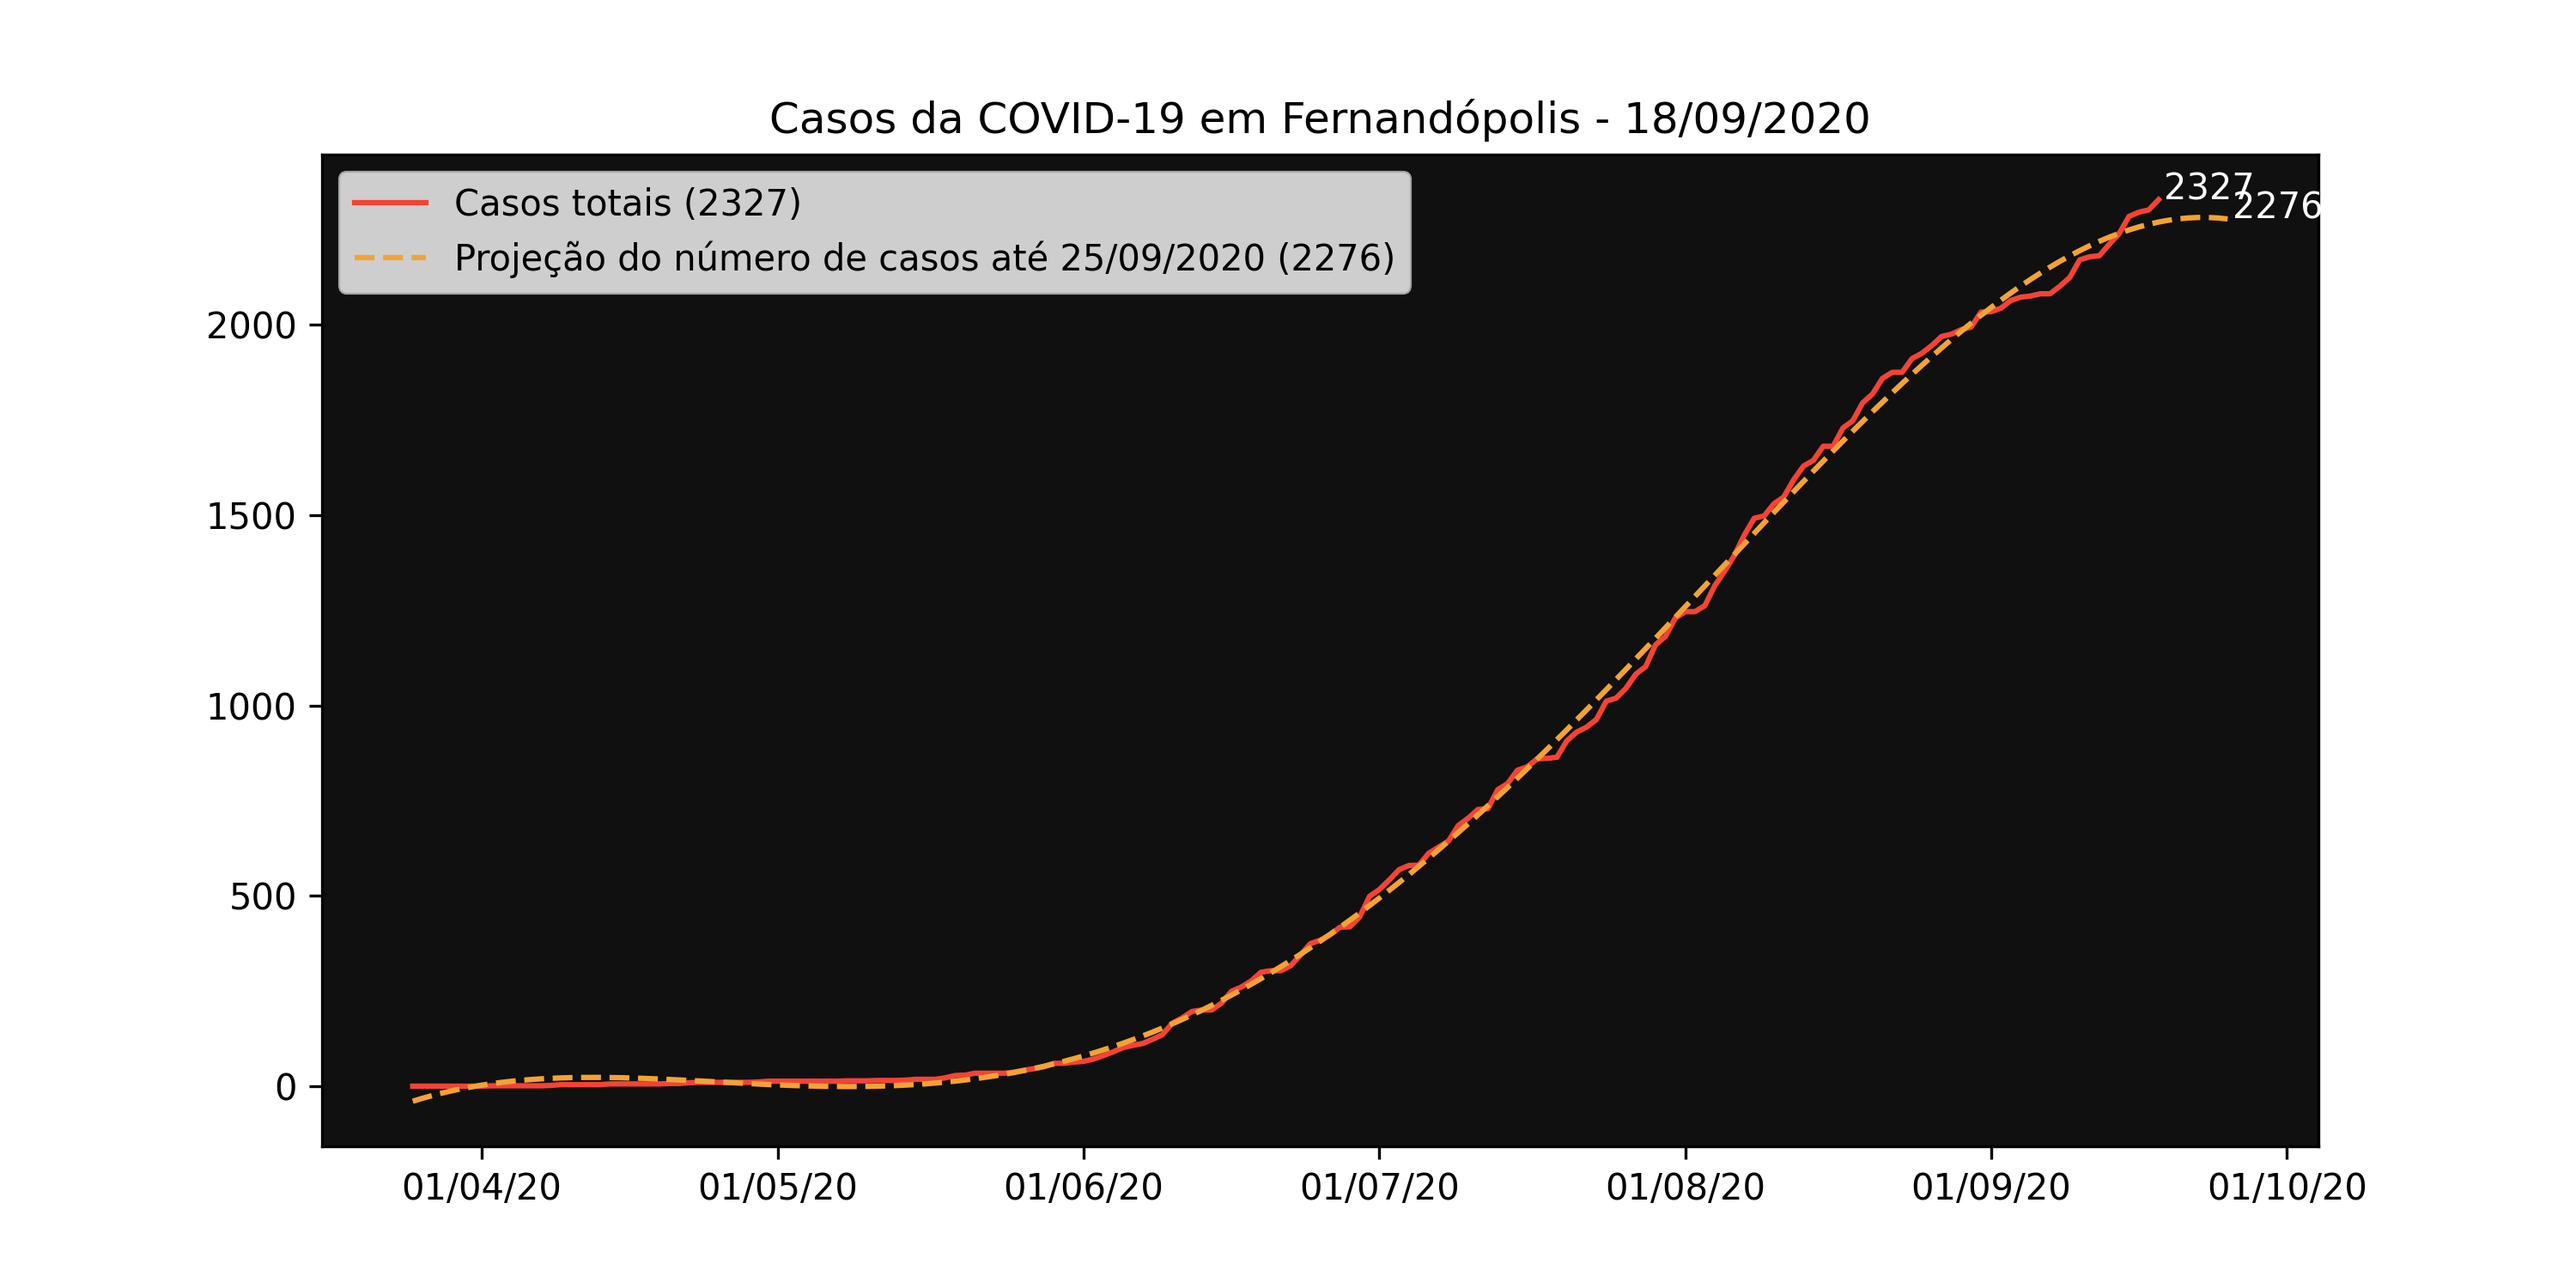
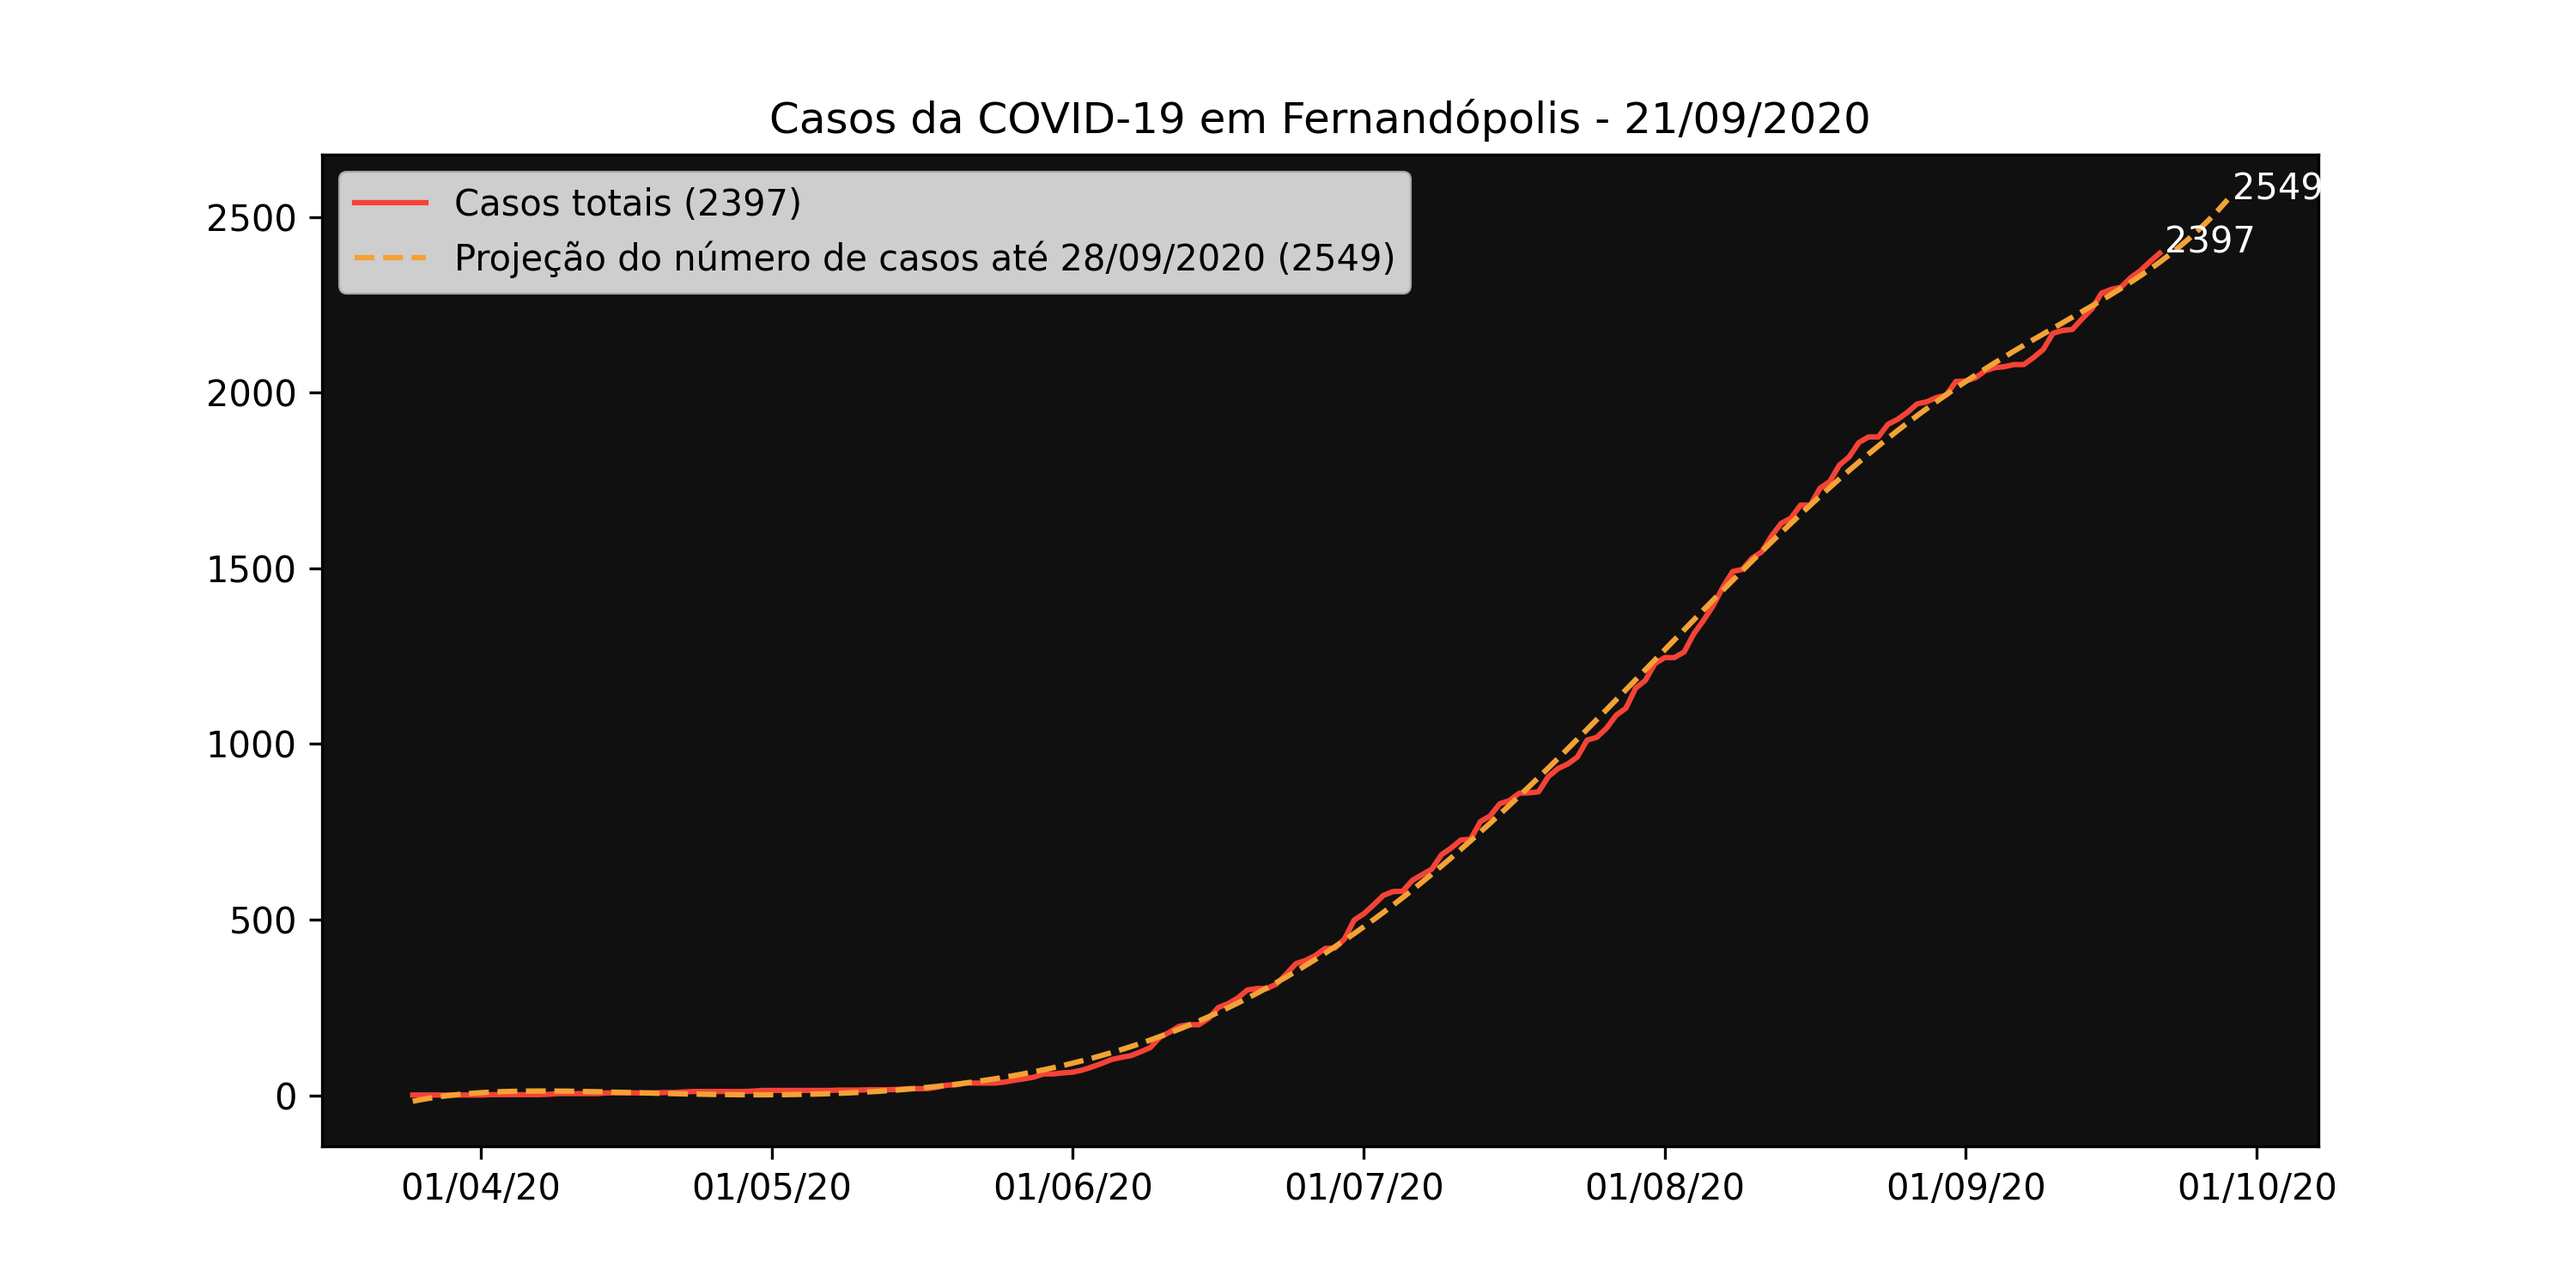
atualização seg 21 set 2020 20:29:23 -03

diff --git a/chart-generator/main.py b/chart-generator/main.py
@@ -124,9 +124,14 @@ def line_chart(ds, dateFmt):
     fig.set_size_inches(10, 5)
     fig.set_dpi(300)
 
-    # exponential function
-    def func(x, a, b, c, d, e):
-        return a * np.power(x, 4) + b * np.power(x, 3) + c * np.power(x, 2) + d * x + e
+    # polynomial function
+    def func(x, a, b, c, d, e, f, g, h):
+        params = [a, b, c, d, e, f, g, h]
+        n = len(params)
+        total = 0
+        for i in range(0, n):
+            total += params[n - i - 1] * np.power(x, i)
+        return total
 
     # optimized parameters for exponential curve fitting
     optimizedParameters, _ = opt.curve_fit(
